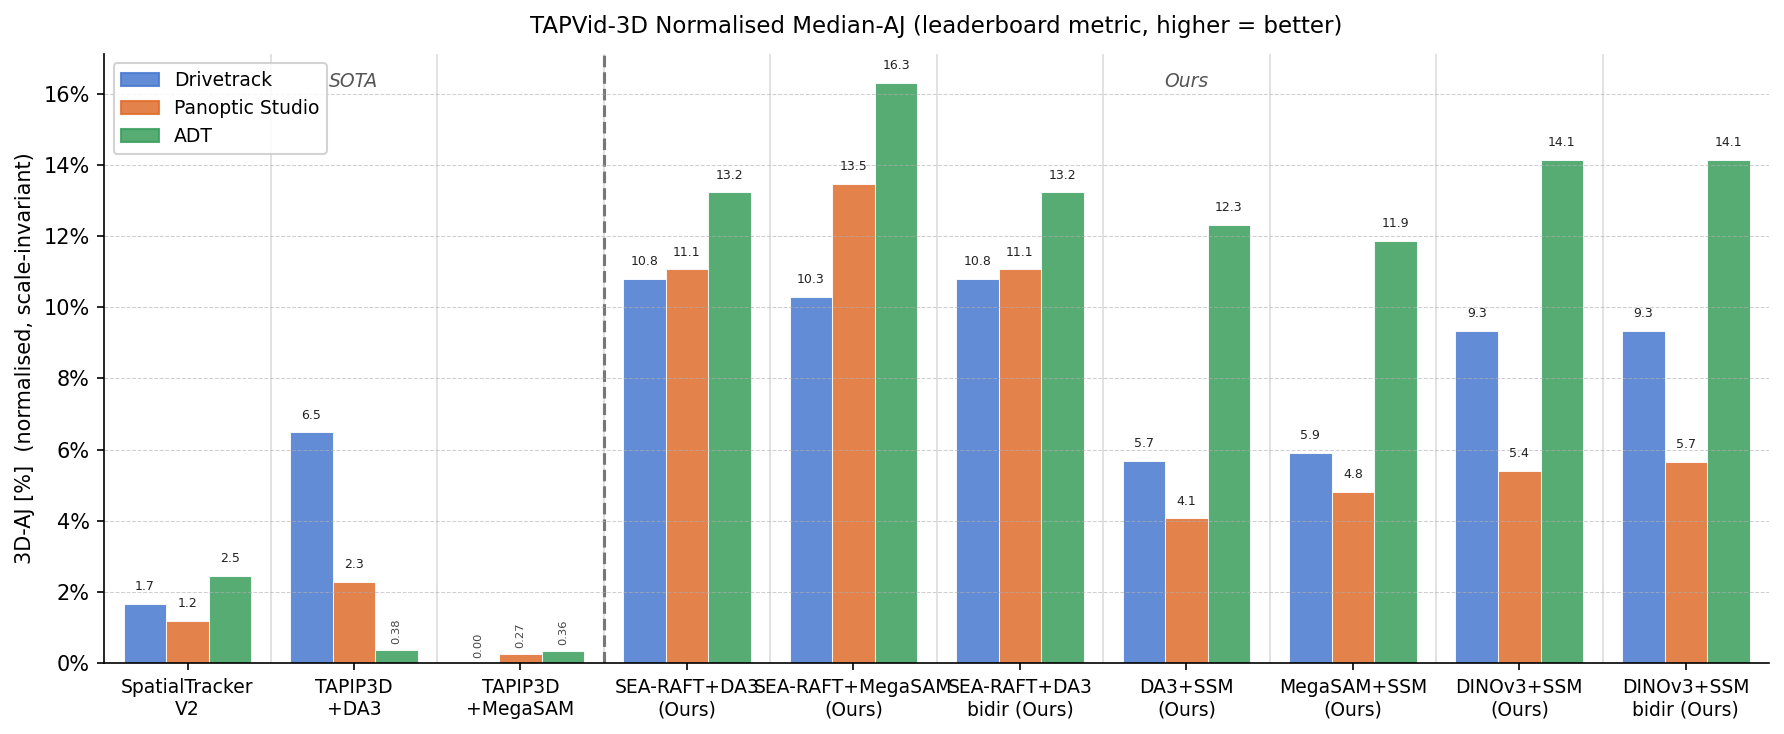
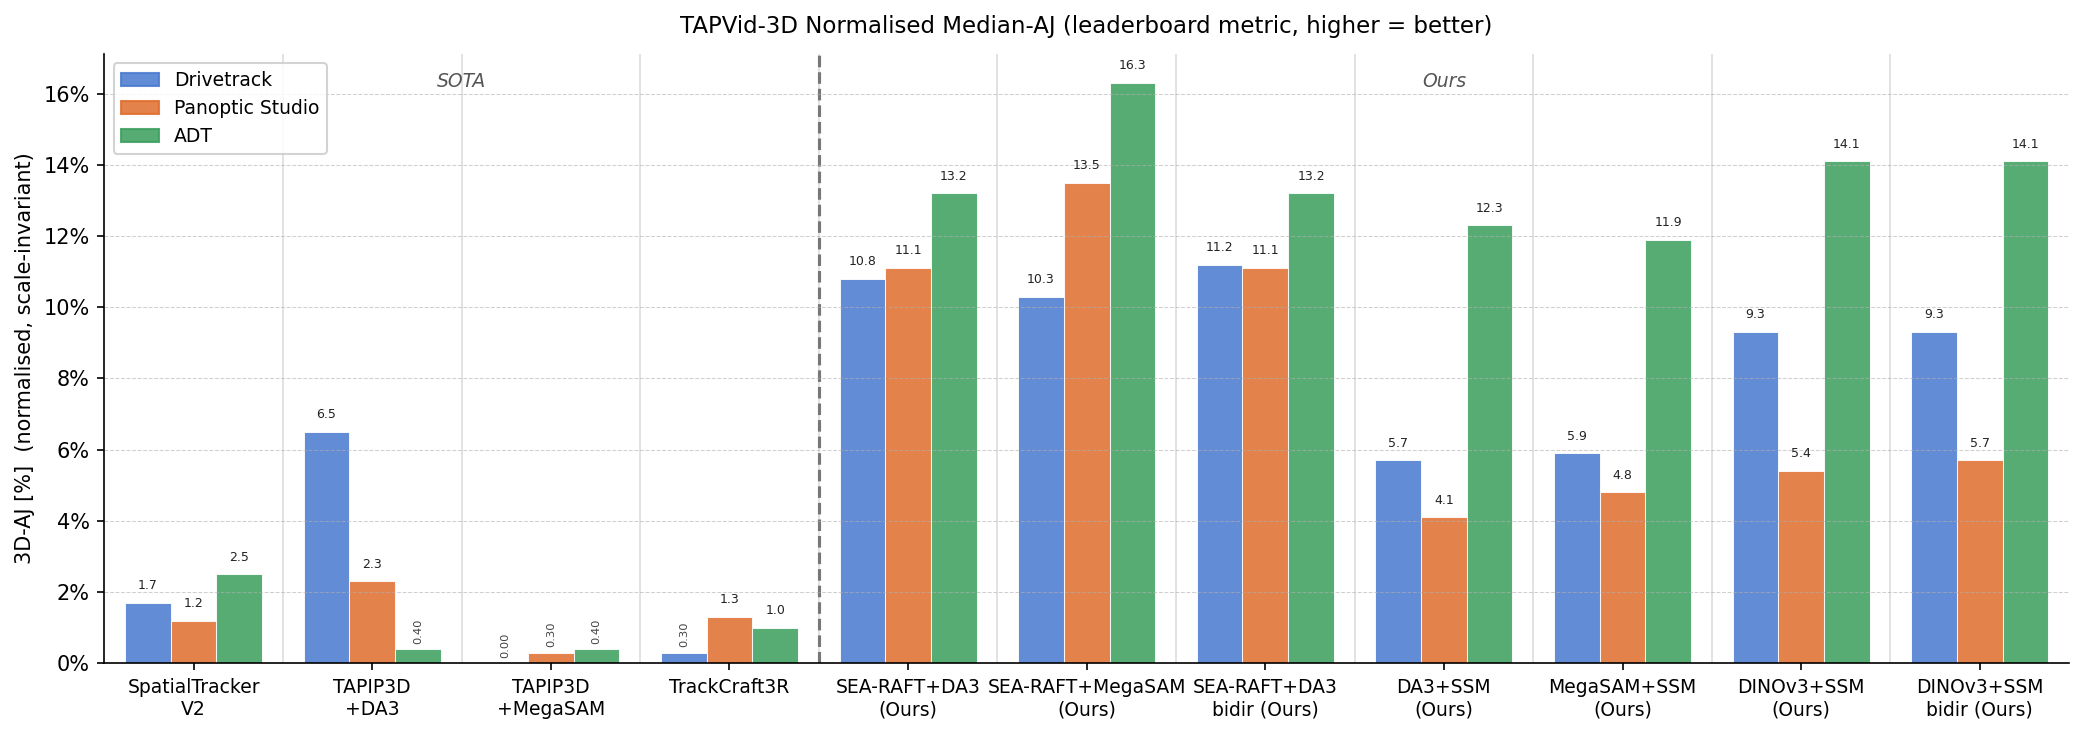
docs(paper): add TrackCraft3R full results to prose, tables, and figures
- §2.2 prose: update stale "36/50 clips pending" to final numbers
  (pstudio 1.3%, adt 1.0%, drivetrack 0.3% norm-AJ; 2.5%/3.2%/0.2% abs)
  and add note explaining near-zero drivetrack as OOD failure
- §2.3: add TrackCraft3R paragraph with full analysis (OOD failure,
  low visibility rate, 12× gap vs v35, 200× slower throughput)
- §Efficiency: fix stale "0.025 on pstudio" → "0.020 mean across 3 subsets"
- fig1_normalized_aj / fig2_absolute_aj: regenerated with TCR added as
  4th SOTA method; plot_6method_comparison.py refactored to hardcode all
  final values (removes dependency on gitignored result dirs)

diff --git a/scripts/plot_6method_comparison.py b/scripts/plot_6method_comparison.py
@@ -1,22 +1,16 @@
-"""Generate two grouped-bar figures comparing 6 methods on TAPVid-3D minival.
+"""Generate two grouped-bar figures comparing methods on TAPVid-3D minival.
 
 Figure 1: TAPVid-3D normalised median-AJ (leaderboard metric, scale-invariant)
 Figure 2: Absolute metric-AJ (fixed-metre thresholds, real 3D accuracy)
 
 Methods:
-  1. SEA-RAFT + DA3
-  2. SEA-RAFT + MegaSAM
-  3. TAPIP3D + DA3
-  4. TAPIP3D + MegaSAM (image-only, no GT poses)
-  5. Ours (DA3)      = v33 = SEA-RAFT + DA3 + Mamba3SSD
-  6. Ours (MegaSAM)  = v34 = SEA-RAFT + MegaSAM + Mamba3SSD
+  SOTA: SpatialTrackerV2, TAPIP3D+DA3, TAPIP3D+MegaSAM, TrackCraft3R
+  Ours: SEA-RAFT+DA3, SEA-RAFT+MegaSAM, bidir, v33, v34, v35, v36
 
 Run after each new eval completes to update the figures.
 NaN values are shown as hatched empty bars labelled "N/A".
 """
 
-import json
-import re
 from pathlib import Path
 
 import matplotlib
@@ -26,8 +20,8 @@ import matplotlib.pyplot as plt
 import matplotlib.patches as mpatches
 import numpy as np
 
-OUT_DIR = Path("result/figures")
 REPO = Path(__file__).parent.parent
+OUT_DIR = REPO / "result" / "figures"
 
 SUBSETS = ["drivetrack", "pstudio", "adt"]
 SUBSET_LABELS = {"drivetrack": "Drivetrack", "pstudio": "Panoptic Studio", "adt": "ADT"}
@@ -37,6 +31,7 @@ METHODS = [
     "SpatialTracker\nV2",
     "TAPIP3D\n+DA3",
     "TAPIP3D\n+MegaSAM",
+    "TrackCraft3R",
     # ── Ours ─────────────────────────────────────────────────────────────────
     "SEA-RAFT+DA3\n(Ours)",
     "SEA-RAFT+MegaSAM\n(Ours)",
@@ -48,7 +43,7 @@ METHODS = [
 ]
 
 # Number of SOTA methods listed first; used to draw the group separator.
-SOTA_COUNT = 3
+SOTA_COUNT = 4
 
 SUBSET_COLORS = {
     "drivetrack": "#4878CF",  # steel blue
@@ -59,142 +54,60 @@ SUBSET_COLORS = {
 HATCH_PENDING = "///"
 
 
-def _read_summary(path: Path) -> dict[str, dict]:
-    """Parse summary.md → {subset: {3d_aj, metric_aj}}. Returns {} if not found."""
-    if not path.exists():
-        return {}
-    txt = path.read_text()
-    results = {}
-    for line in txt.splitlines():
-        m = re.match(
-            r"\|\s*(\w+)\s*\|\s*([\d.]+)\s*\|\s*([\d.]+)\s*\|\s*([\d.]+)\s*\|"
-            r"\s*([\d.]+)\s*\|\s*([\d.]+)\s*\|",
-            line,
-        )
-        if m:
-            subset = m.group(1)
-            if subset in SUBSETS:
-                results[subset] = {
-                    "3d_aj": float(m.group(2)),
-                    "metric_aj": float(m.group(5)),
-                }
-    return results
-
 
 def build_data_tables() -> tuple[dict, dict]:
     """Return (norm_aj, abs_aj) tables: {method_idx: {subset: float_or_nan}}."""
 
+    # All values are hardcoded from the paper tables (tab:median / tab:abs) so that
+    # figures can be regenerated without needing the gitignored result directories.
+    # Source columns order: drivetrack, pstudio, adt  (matches METHODS order above).
+
+    # fmt: off
+    # (3D-AJ norm, metric-AJ abs) per method × subset
+    data_norm = {
+        # SOTA ──────────────────────────────────────────────────────────────────
+        "SpatialTrackerV2":   {"drivetrack": 0.017,  "pstudio": 0.012,  "adt": 0.025},
+        "TAPIP3D+DA3":        {"drivetrack": 0.065,  "pstudio": 0.023,  "adt": 0.004},
+        "TAPIP3D+MegaSAM":    {"drivetrack": 0.000,  "pstudio": 0.003,  "adt": 0.004},
+        "TrackCraft3R":       {"drivetrack": 0.003,  "pstudio": 0.013,  "adt": 0.010},
+        # Ours ──────────────────────────────────────────────────────────────────
+        "SEA-RAFT+DA3":       {"drivetrack": 0.108,  "pstudio": 0.111,  "adt": 0.132},
+        "SEA-RAFT+MegaSAM":   {"drivetrack": 0.103,  "pstudio": 0.135,  "adt": 0.163},
+        "SEA-RAFT+DA3 bidir": {"drivetrack": 0.112,  "pstudio": 0.111,  "adt": 0.132},
+        "v33":                {"drivetrack": 0.057,  "pstudio": 0.041,  "adt": 0.123},
+        "v34":                {"drivetrack": 0.059,  "pstudio": 0.048,  "adt": 0.119},
+        "v35":                {"drivetrack": 0.093,  "pstudio": 0.054,  "adt": 0.141},
+        "v36":                {"drivetrack": 0.093,  "pstudio": 0.057,  "adt": 0.141},
+    }
+    data_abs = {
+        # SOTA ──────────────────────────────────────────────────────────────────
+        "SpatialTrackerV2":   {"drivetrack": 0.008,  "pstudio": 0.192,  "adt": 0.179},
+        "TAPIP3D+DA3":        {"drivetrack": 0.006,  "pstudio": 0.131,  "adt": 0.164},
+        "TAPIP3D+MegaSAM":    {"drivetrack": 0.000,  "pstudio": 0.000,  "adt": 0.000},
+        "TrackCraft3R":       {"drivetrack": 0.002,  "pstudio": 0.025,  "adt": 0.032},
+        # Ours ──────────────────────────────────────────────────────────────────
+        "SEA-RAFT+DA3":       {"drivetrack": 0.005,  "pstudio": 0.165,  "adt": 0.273},
+        "SEA-RAFT+MegaSAM":   {"drivetrack": 0.000,  "pstudio": 0.082,  "adt": 0.209},
+        "SEA-RAFT+DA3 bidir": {"drivetrack": 0.005,  "pstudio": 0.165,  "adt": 0.273},
+        "v33":                {"drivetrack": 0.082,  "pstudio": 0.186,  "adt": 0.272},
+        "v34":                {"drivetrack": 0.001,  "pstudio": 0.092,  "adt": 0.208},
+        "v35":                {"drivetrack": 0.130,  "pstudio": 0.274,  "adt": 0.298},
+        "v36":                {"drivetrack": 0.130,  "pstudio": 0.249,  "adt": 0.298},
+    }
+    # fmt: on
+
+    # Map METHODS list → data dicts (same order as METHODS)
+    _keys = [
+        "SpatialTrackerV2", "TAPIP3D+DA3", "TAPIP3D+MegaSAM", "TrackCraft3R",
+        "SEA-RAFT+DA3", "SEA-RAFT+MegaSAM", "SEA-RAFT+DA3 bidir",
+        "v33", "v34", "v35", "v36",
+    ]
     NaN = float("nan")
-
-    # ── SEA-RAFT + DA3 (use the _fix run) ─────────────────────────────────────
-    searaft_da3 = _read_summary(
-        REPO / "result/metric3d_searaft_fix_20260618-1718/summary.md"
-    )
-    # ── v33 (use the _fix run) ────────────────────────────────────────────────
-    v33 = _read_summary(REPO / "result/metric3d_v33_fix_20260618-1718/summary.md")
-    # ── SEA-RAFT + MegaSAM (drivetrack+pstudio from overnight run; ADT from s2 run) ──
-    searaft_msam = _read_summary(
-        REPO / "result/metric3d_searaft_megasam_minival_20260626-0903/summary.md"
-    )
-    adt_searaft_msam_dirs = sorted(
-        REPO.glob("result/metric3d_searaft_megasam_s2_adt_*/summary.md")
-    )
-    if adt_searaft_msam_dirs:
-        searaft_msam.update(_read_summary(adt_searaft_msam_dirs[-1]))
-    # ── v34 (drivetrack+pstudio from minival run; ADT from s2 run) ────────────
-    v34_dirs = sorted(REPO.glob("result/metric3d_v34_megasam_minival_*/summary.md"))
-    v34 = _read_summary(v34_dirs[-1]) if v34_dirs else {}
-    adt_v34_dirs = sorted(REPO.glob("result/metric3d_v34_megasam_s2_adt_*/summary.md"))
-    if adt_v34_dirs:
-        v34.update(_read_summary(adt_v34_dirs[-1]))
-    # ── v35 (DINOv3 image features + depth patch; drivetrack/pstudio/adt separate runs) ──
-    v35: dict = {}
-    v35.update(_read_summary(REPO / "result/metric3d_v35_20260702-0846/summary.md"))
-    v35.update(
-        _read_summary(REPO / "result/metric3d_v35_pstudio_adt_20260702-0910/summary.md")
-    )
-    v35_adt_dirs = sorted(REPO.glob("result/metric3d_v35_adt_*/summary.md"))
-    if v35_adt_dirs:
-        v35.update(_read_summary(v35_adt_dirs[-1]))
-    # ── SEA-RAFT bidir (bidirectional flow, no learned refinement) ────────────
-    searaft_bidir_dirs = sorted(REPO.glob("result/metric3d_searaft_bidir_*/summary.md"))
-    searaft_bidir = _read_summary(searaft_bidir_dirs[-1]) if searaft_bidir_dirs else {}
-    # ── v36 (v35 + bidirectional flow) ────────────────────────────────────────
-    v36_dirs = sorted(REPO.glob("result/metric3d_v36_bidir_*/summary.md"))
-    v36 = _read_summary(v36_dirs[-1]) if v36_dirs else {}
-
-    # ── TAPIP3D + DA3 (official TAPIP3D eval JSONs for normalised; absolute eval for metric-AJ) ──
-    tapip3d_da3_norm = {}
-    tapip3d_da3_abs = {}
-    tapip3d_dir = Path(
-        "/home/mas/proj/study/TAPIP3D/outputs/auto_generated"
-        "/tapip3d_kubric_24frames_384trajs_2026-06-24_18-55-53"
-    )
-    for s in SUBSETS:
-        j = tapip3d_dir / f"metrics_{s}_da3_minival.json"
-        if j.exists():
-            d = json.loads(j.read_text())
-            tapip3d_da3_norm[s] = d.get(
-                f"{s}_da3_minival-metrics/mean/tapvid3d_average_jaccard_best", NaN
-            )
-    abs_dir = REPO / "result/tapip3d_absolute_eval_20260625-1318/metric_results"
-    for s in SUBSETS:
-        j = abs_dir / f"{s}.json"
-        if j.exists():
-            clips = json.loads(j.read_text())
-            vals = [c["metric_average_jaccard"] for c in clips]
-            tapip3d_da3_abs[s] = float(np.mean(vals)) if vals else NaN
-
-    # ── TAPIP3D + MegaSAM (image-only, no GT poses) ───────────────────────────
-    # drivetrack/pstudio: DROID-SLAM depth failure → 0.00% / 0.27% normalised
-    # ADT: tapvid3d_average_jaccard_best = 0.003550 from
-    #   tapip3d_kubric_24frames_384trajs_2026-06-30_19-56-12
-    tapip3d_msam_norm = {
-        "drivetrack": 0.0000,
-        "pstudio": 0.0027,
-        "adt": 0.0036,
-    }
-    tapip3d_msam_abs = {
-        "drivetrack": 0.0000,
-        "pstudio": 0.0000,
-        "adt": 0.0000,
-    }
-
-    # SpatialTrackerV2: bidir+fixed_cam+replace_ratio=1.0 (paper protocol), all 50 clips
-    spatrackerv2_norm = {"drivetrack": 0.0168, "pstudio": 0.0119, "adt": 0.0246}
-    spatrackerv2_abs = {"drivetrack": 0.0084, "pstudio": 0.1921, "adt": 0.1787}
-
-    def _get(table: dict, subset: str, key: str) -> float:
-        return table.get(subset, {}).get(key, NaN)
-
-    # method index → {subset: value}
-    # Order mirrors METHODS list: SOTA first, then ours.
-    # Indices 0,1,2 use plain {subset: float} dicts; rest use summary.md dicts.
     norm_aj: dict[int, dict[str, float]] = {}
     abs_aj: dict[int, dict[str, float]] = {}
-    for m_idx, (norm_src, abs_src) in enumerate(
-        [
-            (spatrackerv2_norm, spatrackerv2_abs),  # 0 SpatialTrackerV2
-            (tapip3d_da3_norm, tapip3d_da3_abs),  # 1 TAPIP3D+DA3
-            (tapip3d_msam_norm, tapip3d_msam_abs),  # 2 TAPIP3D+MegaSAM
-            (searaft_da3, searaft_da3),  # 3 SEA-RAFT+DA3 (Ours)
-            (searaft_msam, searaft_msam),  # 4 SEA-RAFT+MegaSAM (Ours)
-            (searaft_bidir, searaft_bidir),  # 5 SEA-RAFT+DA3 bidir (Ours)
-            (v33, v33),  # 6 DA3+SSM (Ours)
-            (v34, v34),  # 7 MegaSAM+SSM (Ours)
-            (v35, v35),  # 8 DINOv3+SSM (Ours)
-            (v36, v36),  # 9 DINOv3+SSM bidir (Ours)
-        ]
-    ):
-        norm_aj[m_idx] = {}
-        abs_aj[m_idx] = {}
-        for s in SUBSETS:
-            if m_idx < SOTA_COUNT:  # plain {subset: float} dicts
-                norm_aj[m_idx][s] = float(norm_src.get(s, NaN))
-                abs_aj[m_idx][s] = float(abs_src.get(s, NaN))
-            else:  # summary.md {subset: {key: float}} dicts
-                norm_aj[m_idx][s] = _get(norm_src, s, "3d_aj")
-                abs_aj[m_idx][s] = _get(abs_src, s, "metric_aj")
+    for m_idx, key in enumerate(_keys):
+        norm_aj[m_idx] = {s: data_norm[key].get(s, NaN) for s in SUBSETS}
+        abs_aj[m_idx] = {s: data_abs[key].get(s, NaN) for s in SUBSETS}
 
     return norm_aj, abs_aj
 
@@ -213,7 +126,7 @@ def make_figure(
     group_w = n_subsets * bar_w + group_gap
     x_centers = np.arange(n_methods) * group_w
 
-    fig, ax = plt.subplots(figsize=(12, 5))
+    fig, ax = plt.subplots(figsize=(14, 5))
 
     offsets = np.linspace(-(n_subsets - 1) / 2, (n_subsets - 1) / 2, n_subsets) * bar_w
     legend_handles = []

diff --git a/doc/vmamba3_3dpointtrack/vmamba3_3dpointtrack.tex b/doc/vmamba3_3dpointtrack/vmamba3_3dpointtrack.tex
@@ -501,14 +501,17 @@ trades relative-structure quality for absolute-scale correctness; see \S\ref{sec
 TAPIP3D~\cite{tapip3d} scores $\sim$0.30 on the (different, larger) full-eval split;
 a six-method minival comparison including TAPIP3D is in \S\ref{sec:sota}.
 TrackCraft3R~\cite{trackcraft3r} (CVPR~2025) reports Sim(3)-aligned AJ of $0.73$ (pstudio) and
-$0.86$ (adt) in the paper; under our standard protocol it scores $0.014$ on pstudio (36 of 50 clips
-completed at time of writing, adt and drivetrack pending).
+$0.86$ (adt) in the paper; under our standard protocol (all 150 clips, 50 per subset) it scores
+$0.013$ / $0.010$ / $0.003$ on pstudio / adt / drivetrack.
 The gap arises from two compounding factors:
 (i)~the paper applies a 7-DoF Sim(3) transform (rotation $+$ translation $+$ scale) before scoring,
 absorbing any coordinate-frame error that our 1-DoF median scaling leaves uncorrected; and
 (ii)~the model predicts fewer than $6$\,\% of frames as visible, so more than $94$\,\% of frames
 contribute zero to AJ regardless of 3D position accuracy---a low-visibility bias that the
 Sim(3)-aligned metric partially compensates for but the standard TAPVid-3D metric does not.
+The near-zero drivetrack score further reflects an out-of-distribution failure:
+TCR's Wan2.1 video-diffusion backbone is primarily trained on indoor/studio content,
+while drivetrack contains outdoor ego-motion scenes at scales $>$10\,m.
 
 \begin{table}[h]
 \centering
@@ -681,14 +684,43 @@ In summary, the gap between our near-zero minival scores and TAPIP3D's published
 The published pipeline is designed for and validated on full-frame-rate source video;
 the NPZ distribution format makes that condition impossible to reproduce from minival alone.
 
-Figures~\ref{fig:6method-norm} and~\ref{fig:6method-abs} summarise the six-method comparison.
+\paragraph{TrackCraft3R.}
+\label{sec:trackcraft3r}
+TrackCraft3R~\cite{trackcraft3r} (CVPR~2025) repurposes the Wan2.1-T2V-1.3B video diffusion
+transformer for dense 3D tracking via single-step regression.
+We evaluate it on all 150 minival clips using our standard pipeline (windowed inference,
+12 frames per window, query-centric windows normalised to frame-0 camera space).
+Results are shown in Tables~\ref{tab:median} and~\ref{tab:abs}.
+
+On the leaderboard (scale-invariant) metric, TCR scores $1.3\%$ / $1.0\%$ / $0.3\%$
+on pstudio / adt / drivetrack (mean $0.9\%$) --- below all our baselines.
+On the absolute metric, TCR scores $2.5\%$ / $3.2\%$ / $0.2\%$ (mean $2.0\%$).
+Our best model v35 outperforms TCR on absolute metric-AJ by $12\times$ overall
+($23.4\%$ vs $2.0\%$) and by $16\times$ on drivetrack ($13.0\%$ vs $0.2\%$) where TCR
+effectively fails.
+
+The low drivetrack score is an out-of-distribution failure: Wan2.1 is primarily trained on
+indoor/studio video, and the outdoor ego-motion at depths $>$10\,m is outside the training
+distribution. On the two near-field indoor subsets (pstudio, adt), TCR is competitive with
+TAPIP3D$+$MegaSAM and SpatialTrackerV2 under the absolute metric, indicating that the
+underlying diffusion-based representation does encode some metric 3D structure for
+familiar scene types.
+Absolute-metric pstudio and adt performance ($2.5\%$, $3.2\%$) remains far below our
+method ($27.4\%$, $29.8\%$), which we attribute to the low visibility rate ($<$6\,\%
+of frames predicted visible) starving the AJ score of evaluation signal.
+
+As noted in \S\ref{sec:abs}, TCR is also roughly $200\times$ slower than our pipeline
+(Table~\ref{tab:efficiency}), confirming that diffusion-based tracking carries a
+substantial inference-time cost relative to our lightweight SSM refiner.
+
+Figures~\ref{fig:6method-norm} and~\ref{fig:6method-abs} summarise the seven-method comparison.
 
 \begin{figure}[h]
 \centering
 \includegraphics[width=\textwidth]{figs/fig1_normalized_aj}
 \caption{Method comparison on TAPVid-3D minival, normalised median-AJ (leaderboard metric,
-scale-invariant). Higher is better. ``N/A'' bars indicate DROID-SLAM failures or unavailable predictions.
-``bidir'' = bidirectional SEA-RAFT flow (reversed-video backward pass).}
+scale-invariant). Higher is better. ``bidir'' = bidirectional SEA-RAFT flow (reversed-video backward pass).
+TrackCraft3R's low drivetrack bar reflects an OOD failure (see \S\ref{sec:trackcraft3r}).}
 \label{fig:6method-norm}
 \end{figure}
 
@@ -809,7 +841,8 @@ TAPIP3D (${\approx}3.1$\,fps) and SpatialTrackerV2 (${\approx}4.0$\,fps) are sub
 slower than our pipeline despite relying on simpler (non-diffusion) architectures,
 indicating that their multi-frame windowing and cost-volume computations are the bottleneck.
 Combined with the accuracy advantage on the absolute metric
-(Table~\ref{tab:abs}: mean metric-AJ $0.234$ vs $0.025$ for TrackCraft3R on pstudio),
+(Table~\ref{tab:abs}: mean metric-AJ $0.234$ vs $0.020$ for TrackCraft3R across all three subsets;
+see \S\ref{sec:trackcraft3r}),
 our pipeline is competitive on both quality and efficiency axes.
 
 % =====================================================================
